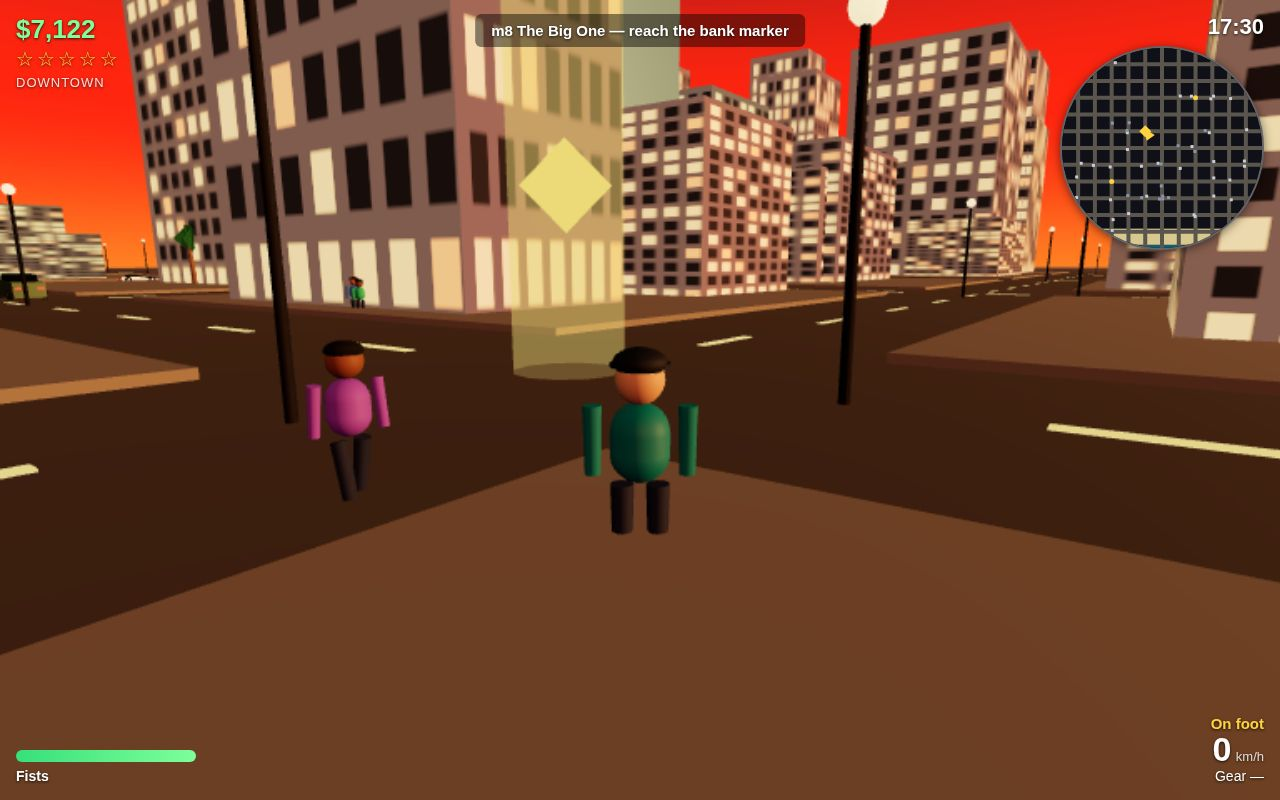
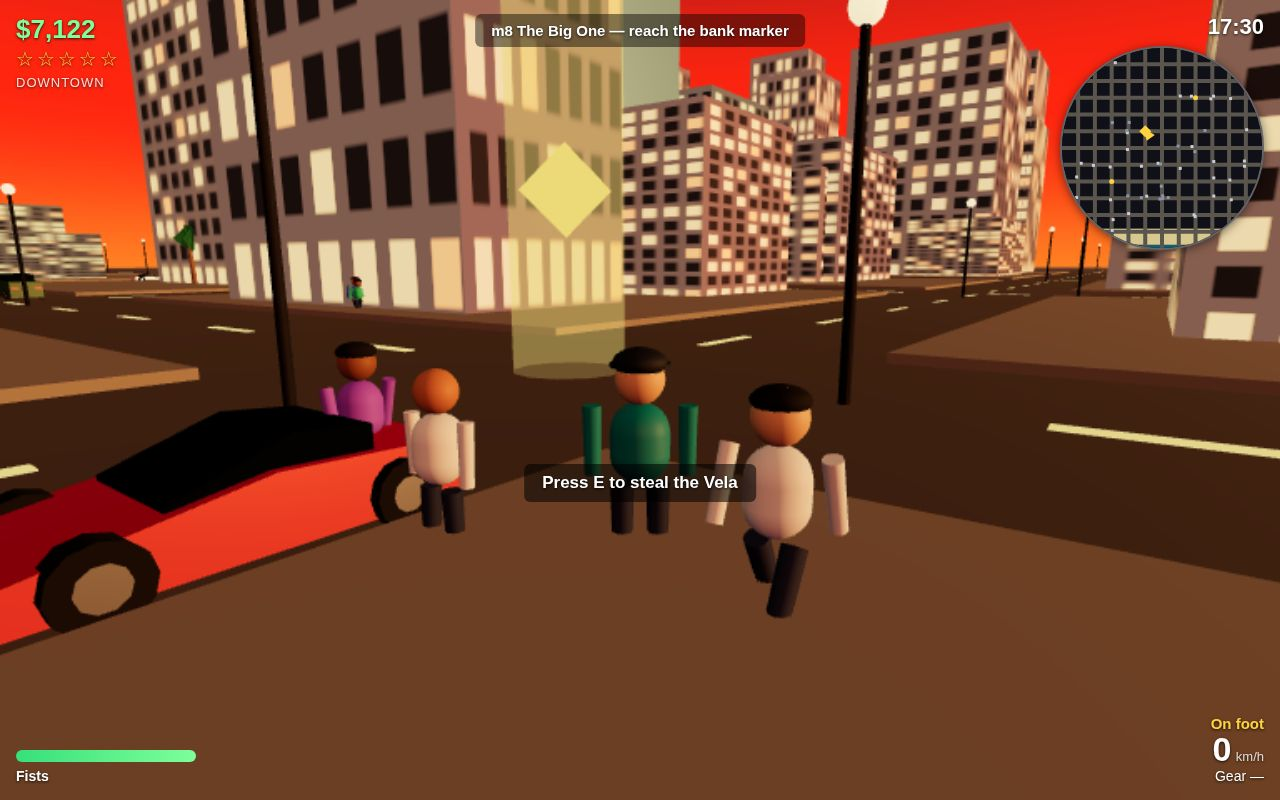
Visual round 2: fix sun halo, three-quarter camera, foreground staging
- Sun: scene-level glow sprite (no longer inherits disc tilt),
  golden disc 0xffdf80, warm orange glow 0xff8a20, tighter falloff;
  clouds warmer/thinner (0.35 opacity) so no pale UFO oval remains.
- Camera: chase lateral offset 1.4 -> 4.2 m (~29 deg three-quarter
  rear view) so the wedge side profile reads; beach sun placed over
  the sea, glitter repointed; 3 beach peds + foreground cluster
  (5 umbrellas, 4 towels, lifeguard stand) on the run line.
- Foot: parked car at road edge west of Dante + 2 spawned peds
  flanking him (6-7 m from camera) fill the sidewalk foreground.
- Night: car starts mid-block (z=26) so the zebra at z=+/-7.5 stays
  ~19 m behind; parked car moved to z=45, in frame ahead.
- Playtest run 25: 60/60 PASS, 0 console errors, 0 failed requests;
  main.ts exit 0, dossier 674,260 B.

diff --git a/game/src/engine.js b/game/src/engine.js
@@ -28,6 +28,7 @@ export class Engine {
     this.acc = 0;
     this.step = 1 / 60;
     this.time = 17.5; // hours — golden hour by default
+    this.sunOverride = null; // staged sun position (beach shot), survives setTime
     this.onResize();
     window.addEventListener('resize', () => this.onResize());
 
@@ -75,36 +76,53 @@ export class Engine {
     this.scene.add(this.sky);
     // Sun disc, low over the sea to the south-west — in frame when the
     // camera looks south (cover, beach, night shots all face +z).
-    const sunMat = new THREE.MeshBasicMaterial({ color: 0xffe9a8, fog: false });
+    const sunMat = new THREE.MeshBasicMaterial({ color: 0xffdf80, fog: false });
     this.sunDisc = new THREE.Mesh(new THREE.CircleGeometry(34, 32), sunMat);
     this.sunDisc.position.set(-260, 130, 680);
     this.sunDisc.lookAt(0, 60, 0);
     this.scene.add(this.sunDisc);
-    // Sun glow: a big soft additive halo riding on the disc (a child, so it
-    // follows the disc wherever setTime puts it).
+    // Sun glow: a tight warm halo. It is a SCENE-level sprite (not a child of
+    // the disc): a child inherits the disc's lookAt tilt and renders as a
+    // pale tilted oval — the UFO blob in the beach shot. Scene-level, a
+    // sprite always faces the camera squarely, so it stays circular.
+    // The gradient is neutral white; the sprite colour tints it per time of
+    // day (warm orange at golden hour, pale blue at night).
     const gc = document.createElement('canvas');
     gc.width = 128; gc.height = 128;
     const gg = gc.getContext('2d');
     const grad = gg.createRadialGradient(64, 64, 2, 64, 64, 62);
     grad.addColorStop(0, 'rgba(255,255,255,1)');
-    grad.addColorStop(0.35, 'rgba(255,255,255,0.45)');
+    grad.addColorStop(0.25, 'rgba(255,255,255,0.55)');
+    grad.addColorStop(0.55, 'rgba(255,255,255,0.12)');
     grad.addColorStop(1, 'rgba(255,255,255,0)');
     gg.fillStyle = grad;
     gg.fillRect(0, 0, 128, 128);
     const glowTex = new THREE.CanvasTexture(gc);
-    this.sunGlow = new THREE.Sprite(new THREE.SpriteMaterial({ map: glowTex, color: 0xffa050, transparent: true, opacity: 0.7, blending: THREE.AdditiveBlending, depthWrite: false, fog: false }));
-    this.sunGlow.scale.set(220, 220, 1);
-    this.sunDisc.add(this.sunGlow);
+    this.sunGlow = new THREE.Sprite(new THREE.SpriteMaterial({ map: glowTex, color: 0xff8a20, transparent: true, opacity: 0.9, blending: THREE.AdditiveBlending, depthWrite: false, fog: false }));
+    this.sunGlow.scale.set(150, 150, 1);
+    this.sunGlow.position.copy(this.sunDisc.position);
+    this.scene.add(this.sunGlow);
     // Clouds: soft flattened ellipsoids, warm-tinted, slowly drifting.
-    const cloudMat = new THREE.MeshBasicMaterial({ color: 0xffd9b8, transparent: true, opacity: 0.55, fog: false });
+    // Warm dusk wisps, not pale UFO ovals: warmer tint, lower opacity, thinner.
+    const cloudMat = new THREE.MeshBasicMaterial({ color: 0xffa860, transparent: true, opacity: 0.35, fog: false });
     this.clouds = [];
     const rng = mulberry32(99);
     for (let i = 0; i < 12; i++) {
       const c = new THREE.Mesh(new THREE.SphereGeometry(1, 12, 8), cloudMat);
-      c.scale.set(50 + rng() * 60, 5 + rng() * 4, 14 + rng() * 10);
+      c.scale.set(50 + rng() * 60, 3 + rng() * 3, 14 + rng() * 10);
       c.position.set((rng() - 0.5) * 1400, 180 + rng() * 120, (rng() - 0.5) * 1400);
       this.clouds.push(c); this.scene.add(c);
     }
+  }
+
+  // Stage the sun at a chosen spot (disc + glow). The position survives
+  // setTime: the beach shot stages the sun over the sea to the west, where
+  // the golden-hour disc would otherwise sit off-frame left.
+  placeSun(x, y, z) {
+    this.sunOverride = { x, y, z };
+    this.sunDisc.position.set(x, y, z);
+    this.sunDisc.lookAt(0, 60, 0);
+    this.sunGlow.position.set(x, y, z);
   }
 
   // Time of day: 0-24. Moves the sun, warms/cools the light, shifts fog/sky.
@@ -135,7 +153,7 @@ export class Engine {
       this.sunDisc.position.set(420, 320, -500);
       this.sunGlow.material.color.setHex(0x8fa8ff);
       this.sunGlow.material.opacity = 0.35;
-      this.sunGlow.scale.set(150, 150, 1);
+      this.sunGlow.scale.set(100, 100, 1);
     } else if (golden) {
       this.sun.intensity = 2.9; this.sun.color.setHex(0xffb36b);
       this.hemi.intensity = 0.85; this.hemi.color.setHex(0xffc9a0); this.hemi.groundColor.setHex(0x3a2b4a);
@@ -147,9 +165,9 @@ export class Engine {
       this.sky.material.uniforms.bot.value.setHex(0xffc46b);
       this.sunDisc.material.color.setHex(0xffe9a8);
       this.sunDisc.position.set(-260, 130, 680);
-      this.sunGlow.material.color.setHex(0xffa050);
-      this.sunGlow.material.opacity = 0.7;
-      this.sunGlow.scale.set(220, 220, 1);
+      this.sunGlow.material.color.setHex(0xff8a20);
+      this.sunGlow.material.opacity = 0.9;
+      this.sunGlow.scale.set(150, 150, 1);
     } else {
       this.sun.intensity = 2.2; this.sun.color.setHex(0xfff2d0);
       this.hemi.intensity = 1.0; this.hemi.color.setHex(0xbfd8ff); this.hemi.groundColor.setHex(0x5a6a55);
@@ -163,8 +181,15 @@ export class Engine {
       this.sunDisc.position.set(-300, 420, -500);
       this.sunGlow.material.color.setHex(0xfff2c0);
       this.sunGlow.material.opacity = 0.5;
-      this.sunGlow.scale.set(220, 220, 1);
+      this.sunGlow.scale.set(120, 120, 1);
     }
+    // The glow rides on the disc (a staged override wins over the default
+    // position, and setTime runs every frame).
+    if (this.sunOverride) {
+      this.sunDisc.position.set(this.sunOverride.x, this.sunOverride.y, this.sunOverride.z);
+      this.sunDisc.lookAt(0, 60, 0);
+    }
+    this.sunGlow.position.copy(this.sunDisc.position);
     this.isNight = night;
     return night;
   }

diff --git a/game/src/main.js b/game/src/main.js
@@ -275,11 +275,14 @@ function updateCamera(dt) {
     while (dy > Math.PI) dy -= Math.PI * 2;
     while (dy < -Math.PI) dy += Math.PI * 2;
     chaseYaw += dy * Math.min(1, dt * 2.2);
-    // Slight lateral offset: the camera sits a touch to the car's right, so
-    // the shot is a rear three-quarter view and the wedge profile reads.
-    const dist = 7.0, height = 2.7;
-    const tx = drivenCar.x - Math.sin(chaseYaw) * dist + Math.cos(chaseYaw) * 1.4;
-    const tz = drivenCar.z - Math.cos(chaseYaw) * dist - Math.sin(chaseYaw) * 1.4;
+    // True three-quarter rear angle: a 4.2 m lateral offset at 7.5 m back
+    // puts the camera ~29° off the car's heading, so the wedge side profile
+    // reads (the old 1.4 m offset was only ~11° — nearly straight behind,
+    // and the Comet read as a box with taillights). The offset stays over
+    // the road (half-width 6 m), clear of buildings and streetlights.
+    const dist = 7.5, height = 2.9, lateral = 4.2;
+    const tx = drivenCar.x - Math.sin(chaseYaw) * dist + Math.cos(chaseYaw) * lateral;
+    const tz = drivenCar.z - Math.cos(chaseYaw) * dist - Math.sin(chaseYaw) * lateral;
     const k = 1 - Math.exp(-dt * 6);
     camPos.x += (tx - camPos.x) * k;
     camPos.y += (height - camPos.y) * k;
@@ -413,8 +416,24 @@ function stageShot() {
       sports.x = -40; sports.z = BEACH_Z + 12; sports.heading = 0; // facing the sea (+z), camera behind sees car + beach + ocean
       engine.setTime(17.5); // golden hour: the sun sits over the sea ahead-left
       time = 17.5;
+      // Sun into the beach frame: the car turns west and the default
+      // golden-hour disc sits ~70° off-frame left — stage the sun over the
+      // sea to the west so the shot has a real sun (sharp disc + tight glow).
+      engine.placeSun(-515, 110, 382);
+      // Sun glitter path on the water points at the staged sun.
+      city.glitter.rotation.y = -1.2;
+      city.glitter.position.set(-320, 0.2, 360);
+      // Beach life in the foreground: peds on the sand south of the run line
+      // (the car stays at z≈262, so they are clear of the wheels).
+      peds.spawnPed(false, -110, 270);
+      peds.spawnPed(false, -120, 268);
+      peds.spawnPed(false, -100, 272);
     } else if (SHOT === 'night') {
-      sports.x = 0; sports.z = -52; sports.heading = 0;
+      // Start mid-block (z=26), not at the intersection: the car stalls
+      // behind seeded traffic at the z=0 crossing (deterministic, both
+      // previous runs), so the shot is taken mid-block either way — the
+      // zebra at z=±7.5 stays ~19 m behind the lens, out of the foreground.
+      sports.x = 0; sports.z = 26; sports.heading = 0;
       engine.setTime(21.5);
       time = 21.5;
     } else if (SHOT === 'chase') {
@@ -453,10 +472,12 @@ function stageShot() {
       // Park a car in the next lane ahead: its taillights stay in frame for
       // the whole night drive. (A moving traffic car drifts out of frame —
       // it is already 50+ m ahead by the time the player gets rolling.)
+      // The shot is taken mid-block (z≈30), so the parked car sits 15 m
+      // ahead at z=45 instead of z=10 (which was right on the zebra).
       const parked = vehicles.cars.find((c) => c.modelKey !== 'sports' && c.modelKey !== 'taxi' && !c.police);
       if (parked) {
-        parked.x = -2.2; parked.z = 10; parked.heading = 0;
-        parked.group.position.set(-2.2, 0, 10);
+        parked.x = -2.2; parked.z = 45; parked.heading = 0;
+        parked.group.position.set(-2.2, 0, 45);
         parked.group.rotation.y = 0;
       }
     }
@@ -468,6 +489,16 @@ function stageShot() {
     engine.setTime(17.5);
     time = 17.5;
     player.group.position.set(player.x, 0, player.z);
+    // Foreground dressing at the actual shot spot (the playtest teleports
+    // Dante to (-44,-44), by the bank at (-52,-52)): a parked car on the
+    // road edge west of Dante, so the bottom of the frame holds a car, not
+    // bare sidewalk. Static, so it stays put until the shutter fires.
+    const fgCar = vehicles.cars.find((c) => c.modelKey !== 'sports' && c.modelKey !== 'taxi' && !c.police);
+    if (fgCar) {
+      fgCar.x = -47.4; fgCar.z = -42; fgCar.heading = 0;
+      fgCar.group.position.set(-47.4, 0, -42);
+      fgCar.group.rotation.y = 0;
+    }
   }
   camPos.set(player.x, 8, player.z - 14);
 }

diff --git a/game/src/city.js b/game/src/city.js
@@ -315,6 +315,64 @@ export class City {
       ums.setColorAt(i, col);
     }
     this.scene.add(ums);
+    // Foreground cluster for the beach-run shot: the camera looks west along
+    // the sand and the bottom of the frame was empty tan. Umbrellas with
+    // real poles, towels and a lifeguard stand sit right on the run line
+    // (x -95..-140, z 256..276) so the foreground holds beach life.
+    const fgCols = [0xff5a7a, 0x22d8ff, 0xffd23e, 0xffffff, 0xff9040];
+    const fgPoleGeo = new THREE.CylinderGeometry(0.06, 0.06, 2.4, 6);
+    const fgPoleMat = new THREE.MeshStandardMaterial({ color: 0xe8e0d0, roughness: 0.8 });
+    const fgUmGeo = new THREE.ConeGeometry(2.2, 1.2, 8);
+    const fgUmSpots = [[-100, 270], [-112, 274], [-124, 268], [-134, 272], [-106, 264]];
+    fgUmSpots.forEach(([x, z], i) => {
+      const pole = new THREE.Mesh(fgPoleGeo, fgPoleMat);
+      pole.position.set(x, 1.2, z);
+      pole.castShadow = true;
+      this.scene.add(pole);
+      const um = new THREE.Mesh(fgUmGeo, new THREE.MeshStandardMaterial({ color: fgCols[i % fgCols.length], roughness: 0.8 }));
+      um.position.set(x, 3.0, z);
+      um.castShadow = true;
+      this.scene.add(um);
+    });
+    // Towels: bright flat rectangles on the sand north of the run line.
+    const towelCols = [0xff5a7a, 0x22d8ff, 0xffd23e, 0x37ffa0];
+    const towelSpots = [[-102, 254], [-114, 255], [-126, 254], [-136, 255]];
+    towelSpots.forEach(([x, z], i) => {
+      const t = new THREE.Mesh(
+        new THREE.BoxGeometry(1.9, 0.06, 0.95),
+        new THREE.MeshStandardMaterial({ color: towelCols[i % towelCols.length], roughness: 0.95 }),
+      );
+      t.position.set(x, 0.12, z);
+      t.rotation.y = (i - 1.5) * 0.25;
+      t.receiveShadow = true;
+      this.scene.add(t);
+    });
+    // Lifeguard stand: tall white tower with a red roof, south of the run line.
+    const lg = new THREE.Group();
+    const lgMat = new THREE.MeshStandardMaterial({ color: 0xf5f0e8, roughness: 0.8 });
+    const lgRed = new THREE.MeshStandardMaterial({ color: 0xe84040, roughness: 0.8 });
+    for (const [lx, lz] of [[-0.8, -0.8], [0.8, -0.8], [-0.8, 0.8], [0.8, 0.8]]) {
+      const leg = new THREE.Mesh(new THREE.BoxGeometry(0.14, 3.2, 0.14), lgMat);
+      leg.position.set(lx, 1.6, lz);
+      lg.add(leg);
+    }
+    const lgPlatform = new THREE.Mesh(new THREE.BoxGeometry(2.2, 0.18, 2.2), lgMat);
+    lgPlatform.position.set(0, 3.3, 0);
+    lg.add(lgPlatform);
+    const lgSeat = new THREE.Mesh(new THREE.BoxGeometry(1.4, 0.5, 1.2), lgRed);
+    lgSeat.position.set(0, 3.65, -0.3);
+    lg.add(lgSeat);
+    const lgRoof = new THREE.Mesh(new THREE.BoxGeometry(2.6, 0.12, 2.6), lgRed);
+    lgRoof.position.set(0, 4.6, 0);
+    lg.add(lgRoof);
+    for (const [rx, rz] of [[-1.1, -1.1], [1.1, -1.1], [-1.1, 1.1], [1.1, 1.1]]) {
+      const post = new THREE.Mesh(new THREE.BoxGeometry(0.1, 1.2, 0.1), lgMat);
+      post.position.set(rx, 4.0, rz);
+      lg.add(post);
+    }
+    lg.position.set(-118, 0, 272);
+    lg.traverse((o) => { if (o.isMesh) o.castShadow = true; });
+    this.scene.add(lg);
   }
 
   buildOcean() {
